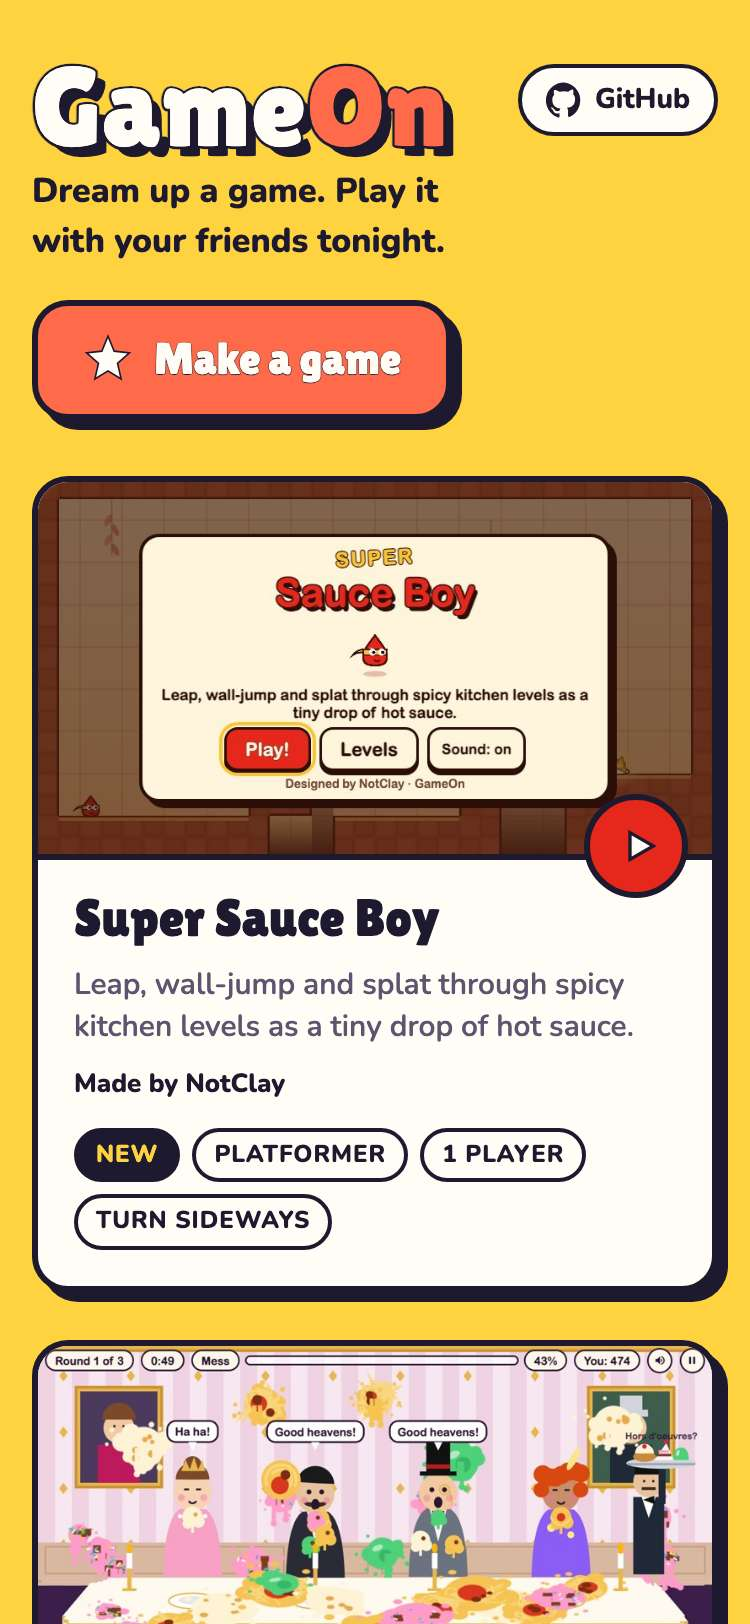
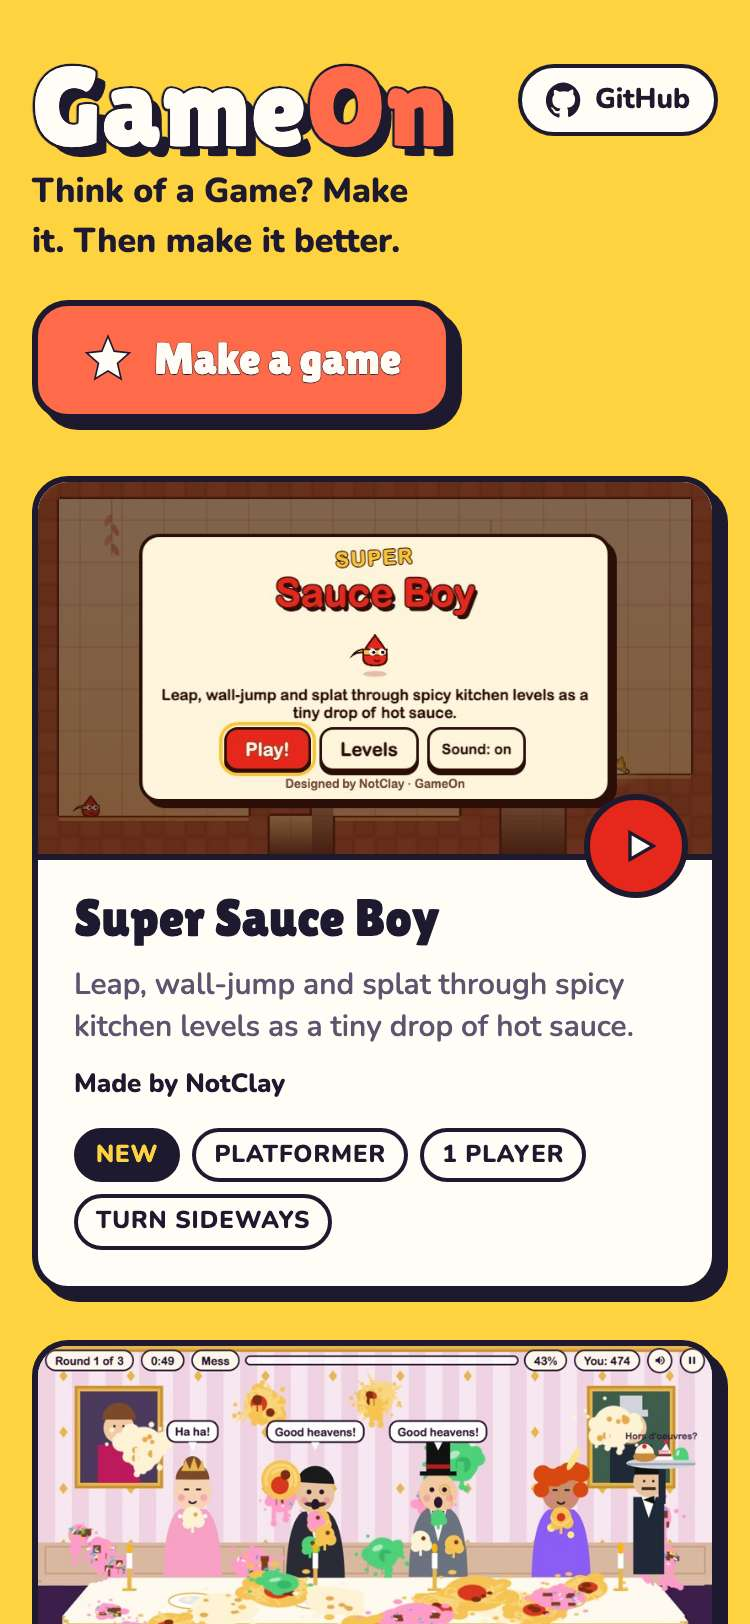
Use Jeremy's tagline: Think of a Game? Make it. Then make it better.

Changed region(s): [[0.0307, 0.0924, 0.5827, 0.1847]]

diff --git a/evidence/135-header-row/index.html b/evidence/135-header-row/index.html
@@ -15,7 +15,7 @@ h1 { font-size: 24px; margin: 0 0 4px; } h2 { font-size: 19px; margin: 28px 0 6p
 </style></head><body>
 <h1>Evidence: 135-header-row</h1>
 <p class="head">PASS: 3 of 3 checks pass at desktop and phone widths.</p>
-<p class="meta">Against the local server (python3 -m http.server) on this branch, from commit 4194911, 2026-10-24 04:39 UTC. Spec: tests/evidence/135-header-row.spec.mjs.</p>
+<p class="meta">Against the local server (python3 -m http.server) on this branch, from commit 376b44d, 2026-10-24 04:39 UTC. Spec: tests/evidence/135-header-row.spec.mjs.</p>
 <section><h2>1. at 1600 wide the header is one row with GitHub at the right</h2><p><span class="s ok">Desktop 1280: pass</span> <span class="s ">Phone 375: skipped</span></p><ul><li>desktop: 1600px: header 76px tall, one row</li></ul><div class="pair"><a href="wide-1600-desktop.jpg"><img class="desktop" src="wide-1600-desktop.jpg" alt="at 1600 wide the header is one row with GitHub at the right: wide-1600-desktop.jpg" loading="lazy"></a></div></section>
 <section><h2>2. at 1280 wide the header is one row with GitHub at the right</h2><p><span class="s ok">Desktop 1280: pass</span> <span class="s ">Phone 375: skipped</span></p><ul><li>desktop: 1280px: header 75px tall, one row</li></ul><div class="pair"><a href="wide-1280-desktop.jpg"><img class="desktop" src="wide-1280-desktop.jpg" alt="at 1280 wide the header is one row with GitHub at the right: wide-1280-desktop.jpg" loading="lazy"></a></div></section>
 <section><h2>3. on a phone the header stacks and nothing overflows</h2><p><span class="s ">Desktop 1280: skipped</span> <span class="s ok">Phone 375: pass</span></p><ul><li>phone: 375px: stacked, header 182px tall</li></ul><div class="pair"><a href="phone-phone.jpg"><img class="phone" src="phone-phone.jpg" alt="on a phone the header stacks and nothing overflows: phone-phone.jpg" loading="lazy"></a></div></section>

diff --git a/index.html b/index.html
@@ -278,7 +278,7 @@ a { color: inherit; }
   <header class="masthead">
     <h1 class="wordmark">Game<span>On</span></h1>
     <a class="gh-home" id="gh-home" href="https://github.com/jwildfire/gameon" target="_blank" rel="noopener"><svg class="gh" viewBox="0 0 24 24" aria-hidden="true"><path d="M12 .3a12 12 0 0 0-3.8 23.4c.6.1.8-.3.8-.6v-2.2c-3.3.7-4-1.4-4-1.4-.6-1.4-1.4-1.8-1.4-1.8-1-.7.1-.7.1-.7 1.2.1 1.8 1.2 1.8 1.2 1 1.8 2.8 1.3 3.5 1 0-.8.4-1.3.7-1.6-2.7-.3-5.5-1.3-5.5-6 0-1.2.5-2.3 1.3-3.1-.2-.4-.6-1.6 0-3.2 0 0 1-.3 3.4 1.2a11.5 11.5 0 0 1 6 0C17 4.6 18 5 18 5c.6 1.6.2 2.8.1 3.2.8.8 1.3 1.9 1.3 3.1 0 4.6-2.8 5.6-5.5 5.9.4.4.8 1.1.8 2.2v3.3c0 .3.2.7.8.6A12 12 0 0 0 12 .3"/></svg>GitHub</a>
-    <p class="lede">Dream up a game. Play it with your friends tonight.</p>
+    <p class="lede">Think of a Game? Make it. Then make it better.</p>
     <a class="make" id="make-btn" href="new/"><svg viewBox="0 0 24 24" aria-hidden="true"><path d="M12 2l2.6 6.3L21 9l-5 4.4L17.5 20 12 16.6 6.5 20 8 13.4 3 9l6.4-.7z"/></svg>Make a game</a>
   </header>
   <ul class="shelf" id="shelf" aria-label="Games"></ul>

diff --git a/evidence/135-header-row/README.md b/evidence/135-header-row/README.md
@@ -2,7 +2,7 @@
 
 **PASS: 3 of 3 checks pass at desktop and phone widths.**
 
-Generated by `npm run evidence -- 135-header-row` from [`tests/evidence/135-header-row.spec.mjs`](../../tests/evidence/135-header-row.spec.mjs) against the local server (python3 -m http.server) on this branch, starting from commit 4194911, 2026-10-24 04:39 UTC. Rules: [docs/evidence.md](../../docs/evidence.md).
+Generated by `npm run evidence -- 135-header-row` from [`tests/evidence/135-header-row.spec.mjs`](../../tests/evidence/135-header-row.spec.mjs) against the local server (python3 -m http.server) on this branch, starting from commit 376b44d, 2026-10-24 04:39 UTC. Rules: [docs/evidence.md](../../docs/evidence.md).
 
 | Check | Desktop 1280 | Phone 375 |
 |---|---|---|
